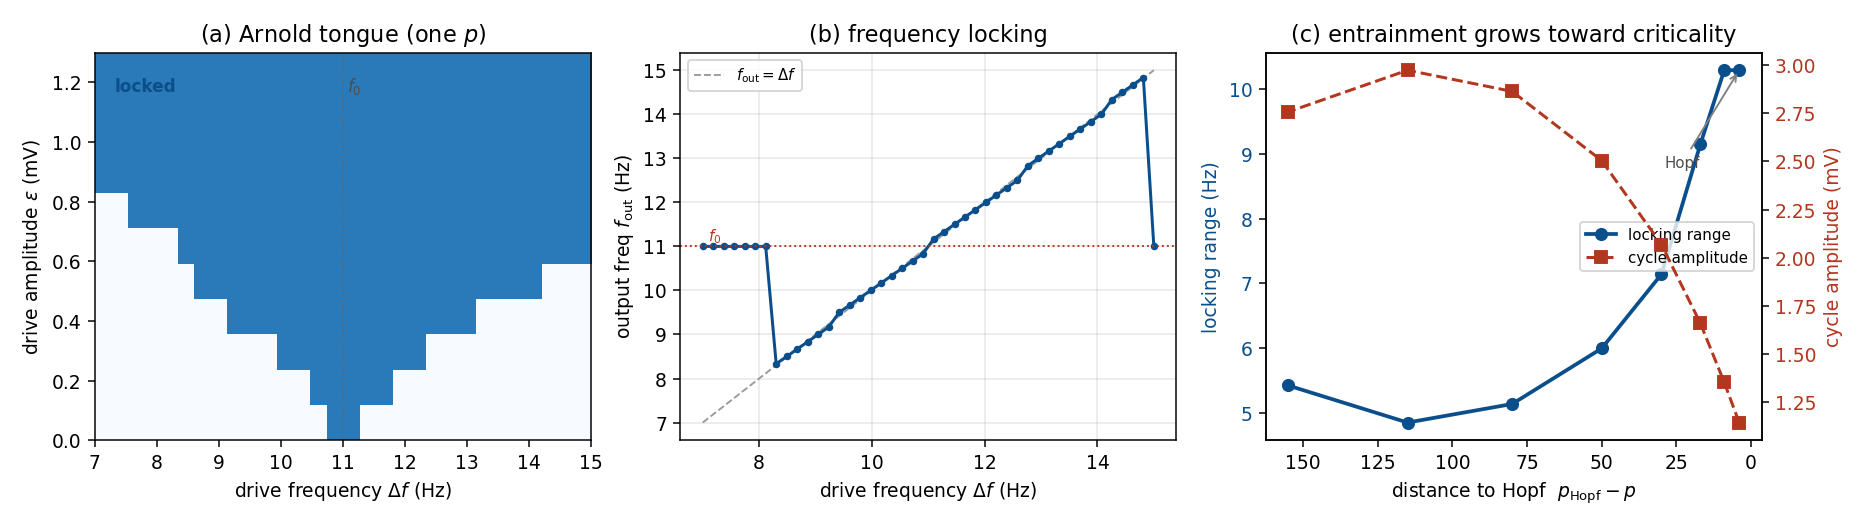
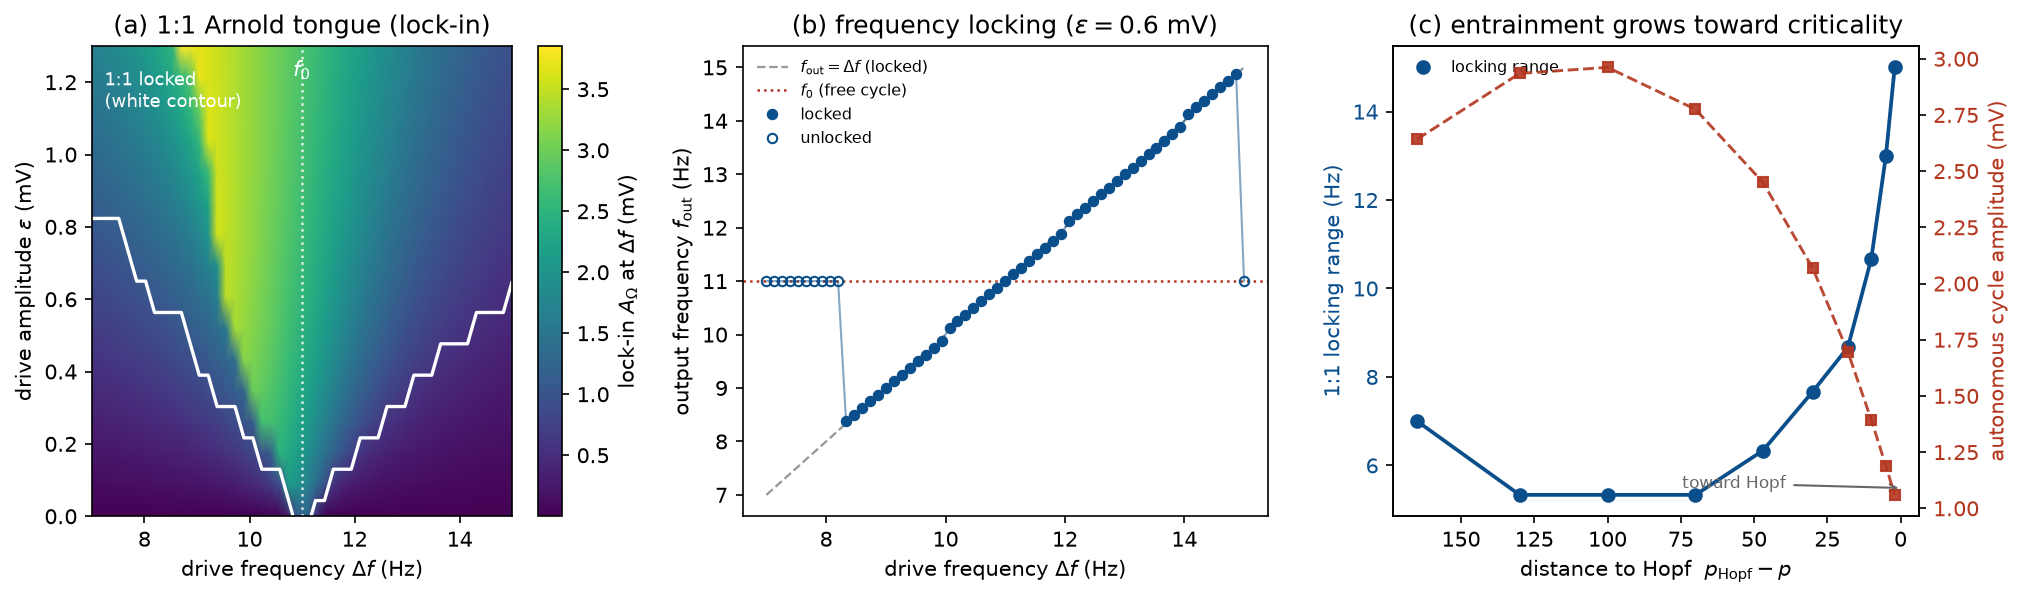
Rebuild fig_entrainment properly + close last reproducibility gap
The entrainment figure was the weakest in the paper AND the last figure with no
committed plotter/data. Rebuilt from scratch (make_entrain_fig.py + upgraded sims):
- (a) continuous lock-in Arnold tongue with 1:1-locked boundary contour (was binary blocks)
- (b) clean symmetric frequency-locking staircase (old one had an unexplained discontinuity)
- (c) criticality sweep with a wide +-12 Hz window so near-Hopf points are NOT grid-clipped
  -> now monotonic (locking range 5.3->15 Hz toward Hopf; cycle amplitude 2.96->1.06 mV)
entrain.py/entrain_crit.py: path-robust, finer grids, lock-in over the tongue grid.
entrain*.npz now committed so the figure rebuilds without re-running the slow sweeps.
Wired into run_all + README; only gap left is fig_lanmm_setup (hand-drawn).
Build clean: 29 pp, 0 undefined refs.

diff --git a/code/make_entrain_fig.py b/code/make_entrain_fig.py
@@ -1,0 +1,94 @@
+"""Plotter for fig_entrainment (S: the above-Hopf / oscillatory regime).
+
+Rebuilt, honest 3-panel figure of entrainment of the autonomous JR alpha limit
+cycle by a direct Delta f drive --- the supercritical counterpart of the 1/gamma
+forced gain on the stable side:
+
+  (a) 1:1 Arnold tongue   -- CONTINUOUS lock-in A_Omega over (Delta f, drive eps),
+                             with the 1:1-locked boundary overlaid (entrain.npz).
+  (b) frequency locking   -- dominant output frequency rides Delta f inside the
+                             tongue, returns to f0 outside (entrain_b.npz).
+  (c) toward criticality  -- 1:1 locking range (tongue width) grows, and the
+                             autonomous cycle amplitude falls, as the operating
+                             point approaches the Hopf (entrain_crit.npz). Wide
+                             Delta f window => near-Hopf points are not grid-clipped.
+
+Data: entrain.py (a,b) and entrain_crit.py (c). Run those first.
+"""
+import os
+import numpy as np
+import matplotlib
+matplotlib.use("Agg")
+import matplotlib.pyplot as plt
+
+HERE = os.path.dirname(os.path.abspath(__file__))
+FIGS = os.environ.get("TN_FIGDIR") or os.path.join(os.path.dirname(HERE), "figures")
+os.makedirs(FIGS, exist_ok=True)
+NEBLUE = "#0a4f8c"; NERED = "#b3361f"; NEGREEN = "#1a9850"
+
+for f in ("entrain.npz", "entrain_b.npz", "entrain_crit.npz"):
+    if not os.path.exists(os.path.join(HERE, f)):
+        raise SystemExit(f"{f} not found -- run entrain.py and entrain_crit.py first.")
+A = np.load(os.path.join(HERE, "entrain.npz"))
+Bd = np.load(os.path.join(HERE, "entrain_b.npz"))
+Cd = np.load(os.path.join(HERE, "entrain_crit.npz"))
+
+fig, ax = plt.subplots(1, 3, figsize=(13.6, 4.1))
+
+# ---- (a) Arnold tongue: continuous lock-in + locked boundary -----------------
+dfg, epsg = A["dfg"], A["epsg"]; lockin = A["lockin"].T   # -> (eps, df)
+f0 = float(A["f0"])
+pm = ax[0].pcolormesh(dfg, epsg, lockin, shading="gouraud", cmap="viridis")
+# 1:1-locked boundary (from the binary mask), drawn as a contour
+ax[0].contour(dfg, epsg, A["locked"].T, levels=[0.5], colors="w", linewidths=1.6)
+ax[0].axvline(f0, ls=":", color="w", lw=1.2, alpha=0.8)
+ax[0].text(f0, epsg[-1] * 0.97, r"$f_0$", color="w", ha="center", va="top", fontsize=10)
+ax[0].text(0.03, 0.95, "1:1 locked\n(white contour)", transform=ax[0].transAxes,
+           color="w", fontsize=8.5, va="top")
+ax[0].set_xlabel(r"drive frequency $\Delta f$ (Hz)")
+ax[0].set_ylabel(r"drive amplitude $\varepsilon$ (mV)")
+ax[0].set_title("(a) 1:1 Arnold tongue (lock-in)")
+cb = fig.colorbar(pm, ax=ax[0]); cb.set_label(r"lock-in $A_\Omega$ at $\Delta f$ (mV)")
+
+# ---- (b) frequency locking ---------------------------------------------------
+dfb, fd = Bd["dfb"], Bd["fd"]
+locked_b = np.abs(fd - dfb) < 0.3
+ax[1].plot(dfb, dfb, ls="--", color="0.6", lw=1.1, label=r"$f_{\rm out}=\Delta f$ (locked)")
+ax[1].axhline(f0, ls=":", color=NERED, lw=1.2, label=r"$f_0$ (free cycle)")
+ax[1].plot(dfb, fd, "-", color=NEBLUE, lw=1.0, alpha=0.5, zorder=2)
+ax[1].plot(dfb[locked_b], fd[locked_b], "o", color=NEBLUE, ms=4.5, zorder=3, label="locked")
+ax[1].plot(dfb[~locked_b], fd[~locked_b], "o", mfc="none", mec=NEBLUE, ms=4.5, zorder=3,
+           label="unlocked")
+ax[1].set_xlabel(r"drive frequency $\Delta f$ (Hz)")
+ax[1].set_ylabel(r"output frequency $f_{\rm out}$ (Hz)")
+ax[1].set_title(r"(b) frequency locking ($\varepsilon=%.1f$ mV)" % float(Bd["eps_b"]))
+ax[1].legend(fontsize=7.5, frameon=False, loc="upper left")
+
+# ---- (c) entrainment grows toward criticality --------------------------------
+dist = Cd["pH"] - Cd["pg"]; lr = Cd["lock_range"]; amp0 = Cd["amp0"]
+clip = Cd["clipped"] if "clipped" in Cd.files else np.zeros_like(lr, bool)
+order = np.argsort(-dist)                      # far -> near Hopf
+dist, lr, amp0, clip = dist[order], lr[order], amp0[order], clip[order].astype(bool)
+ax[2].plot(dist, lr, "-", color=NEBLUE, lw=1.8, zorder=2)
+ax[2].plot(dist[~clip], lr[~clip], "o", color=NEBLUE, ms=6, zorder=3, label="locking range")
+if clip.any():                                 # honesty: mark grid-clipped lower bounds
+    ax[2].plot(dist[clip], lr[clip], "^", mfc="none", mec=NEBLUE, ms=8, mew=1.5,
+               zorder=3, label="clipped (lower bound)")
+ax[2].set_xlabel(r"distance to Hopf  $p_{\rm Hopf}-p$")
+ax[2].set_ylabel(r"1:1 locking range (Hz)", color=NEBLUE)
+ax[2].tick_params(axis="y", labelcolor=NEBLUE)
+ax[2].invert_xaxis()                            # Hopf (criticality) to the right
+ax[2].set_title("(c) entrainment grows toward criticality")
+ax[2].annotate("toward Hopf", xy=(0.97, 0.06), xytext=(0.55, 0.06),
+               xycoords="axes fraction", fontsize=8, color="0.4",
+               arrowprops=dict(arrowstyle="->", color="0.4"))
+axr = ax[2].twinx()
+axr.plot(dist, amp0, "s--", color=NERED, lw=1.4, ms=5, alpha=0.9)
+axr.set_ylabel("autonomous cycle amplitude (mV)", color=NERED)
+axr.tick_params(axis="y", labelcolor=NERED)
+ax[2].legend(fontsize=7.5, frameon=False, loc="upper left")
+
+fig.tight_layout()
+for ext in ("pdf", "png"):
+    fig.savefig(os.path.join(FIGS, f"fig_entrainment.{ext}"), dpi=150, bbox_inches="tight")
+print("wrote fig_entrainment.{pdf,png} to", FIGS)

diff --git a/code/entrain.py b/code/entrain.py
@@ -4,7 +4,8 @@ with a direct Delta f sinusoid; sweep (Delta f, amplitude).
 (a) 1:1 Arnold tongue: region where the column's dominant output frequency locks to Delta f.
 (b) at fixed drive: locking (lock-in at Delta f) peaks in the tongue while the cycle
     AMPLITUDE barely moves -> entrainment of phase/timing, not amplitude amplification."""
-import numpy as np, matplotlib; matplotlib.use("Agg"); import matplotlib.pyplot as plt
+import os, numpy as np, matplotlib; matplotlib.use("Agg"); import matplotlib.pyplot as plt
+HERE=os.path.dirname(os.path.abspath(__file__))
 A,B=3.25,22.0; a,b=100.0,50.0; v0,e0,rr=6.0,2.5,0.56
 def Sigm(v): return 2*e0/(1+np.exp(rr*(v0-v)))
 def rhs(Y,p,sf):
@@ -47,7 +48,7 @@ l0,amp0,f0=integ(np.array([p0]),0.0,np.array([2*np.pi*10.0]),6.0,6.0,dt)
 f0=float(f0[0]); amp0=float(amp0[0]); print(f"autonomous p={p0}: f0={f0:.2f} Hz, cycle amp={amp0:.2f} mV")
 
 # (a) tongue grid
-dfg=np.linspace(f0-4.0,f0+4.0,30); epsg=np.linspace(0.0,1.3,11)
+dfg=np.linspace(f0-4.0,f0+4.0,48); epsg=np.linspace(0.0,1.3,16)
 DF,EP=np.meshgrid(dfg,epsg,indexing="ij")
 p=np.full(DF.size,p0); Om=2*np.pi*DF.ravel(); eps=EP.ravel()
 # vectorized over grid: eps per element
@@ -58,22 +59,30 @@ def integ_vec(p,eps,Om,t_set,t_meas,dt,dec=5):
         k1=rhs(Y,p,sf(t));k2=rhs(Y+.5*dt*k1,p,sf(t+.5*dt));k3=rhs(Y+.5*dt*k2,p,sf(t+.5*dt));k4=rhs(Y+dt*k3,p,sf(t+dt))
         Y=Y+(dt/6)*(k1+2*k2+2*k3+k4);t+=dt
     nm=int(t_meas/dt);buf=[]
+    w=np.hanning(nm);ws=w.sum();ac=np.zeros(N);as_=np.zeros(N);av=np.zeros(N);awc=np.zeros(N);aws=np.zeros(N)
     vmax=np.full(N,-1e9);vmin=np.full(N,1e9)
     for k in range(nm):
         k1=rhs(Y,p,sf(t));k2=rhs(Y+.5*dt*k1,p,sf(t+.5*dt));k3=rhs(Y+.5*dt*k2,p,sf(t+.5*dt));k4=rhs(Y+dt*k3,p,sf(t+dt))
         Y=Y+(dt/6)*(k1+2*k2+2*k3+k4);t+=dt
-        v=Y[:,1]-Y[:,2];vmax=np.maximum(vmax,v);vmin=np.minimum(vmin,v)
+        v=Y[:,1]-Y[:,2];co=np.cos(Om*t);si=np.sin(Om*t)
+        ac+=w[k]*v*co;as_+=w[k]*v*si;av+=w[k]*v;awc+=w[k]*co;aws+=w[k]*si
+        vmax=np.maximum(vmax,v);vmin=np.minimum(vmin,v)
         if k%dec==0: buf.append(v.copy())
+    vb=av/ws;c=ac-vb*awc;s=as_-vb*aws;lockin=2/ws*np.sqrt(c**2+s**2)
     buf=np.array(buf);bb=buf-buf.mean(0,keepdims=True);fr=np.fft.rfftfreq(len(bb),d=dt*dec)
     P=np.abs(np.fft.rfft(bb*np.hanning(len(bb))[:,None],axis=0));fdom=fr[1:][np.argmax(P[1:],axis=0)]
-    return fdom, vmax-vmin
-fdom,amp=integ_vec(p,eps,Om,5.0,5.0,dt)
-locked=(np.abs(fdom-DF.ravel())<0.25).astype(float).reshape(DF.shape)  # 1:1 lock
-np.savez("entrain.npz",dfg=dfg,epsg=epsg,locked=locked,f0=f0,amp0=amp0,p0=p0)
+    return fdom, vmax-vmin, lockin
+fdom,amp,li_grid=integ_vec(p,eps,Om,5.0,5.0,dt)
+detune=np.abs(fdom-DF.ravel())
+locked=(detune<0.25).astype(float).reshape(DF.shape)      # 1:1 lock (binary boundary)
+np.savez(os.path.join(HERE,"entrain.npz"),dfg=dfg,epsg=epsg,locked=locked,
+         lockin=li_grid.reshape(DF.shape),detune=detune.reshape(DF.shape),
+         f0=f0,amp0=amp0,p0=p0)
 print("tongue done; locked fraction:", locked.mean())
 
-# (b) one drive amplitude: lock-in + amplitude vs Delta f
-eps_b=0.6; dfb=np.linspace(f0-4.0,f0+4.0,44); Omb=2*np.pi*dfb
-li,ampb,fd=integ([np.full(len(dfb),p0)][0],eps_b,Omb,6.0,6.0,dt)
-np.savez("entrain_b.npz",dfb=dfb,li=li,ampb=ampb,fd=fd,f0=f0,amp0=amp0,eps_b=eps_b)
+# (b) one drive amplitude: lock-in + amplitude + dominant freq vs Delta f (finer, longer)
+eps_b=0.6; dfb=np.linspace(f0-4.0,f0+4.0,61); Omb=2*np.pi*dfb
+li,ampb,fd=integ(np.full(len(dfb),p0),eps_b,Omb,6.0,8.0,dt)
+np.savez(os.path.join(HERE,"entrain_b.npz"),dfb=dfb,li=li,ampb=ampb,fd=fd,
+         f0=f0,amp0=amp0,eps_b=eps_b)
 print("panel b done")

diff --git a/code/entrain_crit.py b/code/entrain_crit.py
@@ -3,7 +3,8 @@ operating point p across the limit-cycle range toward the Hopf (p_Hopf~315); at 
 drive, measure the 1:1 locking range (tongue width in Delta f). It grows as the Hopf is
 approached and the autonomous cycle amplitude -> 0 -- the entrainment counterpart of the
 1/gamma forced-gain divergence on the stable side."""
-import numpy as np
+import os, numpy as np
+HERE=os.path.dirname(os.path.abspath(__file__))
 A,B=3.25,22.0; a,b=100.0,50.0; v0,e0,rr=6.0,2.5,0.56
 def Sigm(v): return 2*e0/(1+np.exp(rr*(v0-v)))
 def rhs(Y,p,sf):
@@ -31,22 +32,25 @@ def run(p,eps,Om,t_set,t_meas,dt,dec=5):
     P=np.abs(np.fft.rfft(bb*np.hanning(len(bb))[:,None],axis=0));fdom=fr[1:][np.argmax(P[1:],axis=0)]
     return fdom, vmax-vmin
 dt=2e-4; pH=315.0; eps=0.5
-pg=np.array([160,200,235,265,285,298,306,311],float)
+pg=np.array([150,185,215,245,268,285,297,305,310,313],float)
 # autonomous f0(p), amp0(p)
 f0=np.zeros(len(pg)); amp0=np.zeros(len(pg))
 for i,p in enumerate(pg):
     fd,am=run(np.array([p]),0.0,np.array([2*np.pi*10.0]),6.0,6.0,dt); f0[i]=fd[0]; amp0[i]=am[0]
-# locking range at fixed eps: Delta f grid relative to each f0
-nd=36; rel=np.linspace(-5.0,5.0,nd); dlo=10.0/(nd-1)
+# locking range at fixed eps: Delta f grid relative to each f0. Wide window (+-12 Hz)
+# so near-Hopf locking ranges are NOT grid-clipped; fine spacing for a clean width.
+nd=73; half=12.0; rel=np.linspace(-half,half,nd); dlo=2*half/(nd-1)
 P=[];DF=[]
 for i,p in enumerate(pg):
     P+=[p]*nd; DF+=list(f0[i]+rel)
 P=np.array(P);DF=np.array(DF);Om=2*np.pi*DF
-fdom,_=run(P,eps,Om,5.0,5.0,dt)
+fdom,_=run(P,eps,Om,5.0,6.0,dt)
 locked=(np.abs(fdom-DF)<0.30).reshape(len(pg),nd)
 lock_range=locked.sum(1)*dlo   # Hz
-print(" p     dist=pH-p  f0     cycAmp   lockRange(Hz)")
+clipped=locked[:,0]|locked[:,-1]   # True if the locked band reaches a window edge
+print(" p     dist=pH-p  f0     cycAmp   lockRange(Hz)  clipped")
 for i in range(len(pg)):
-    print(f"{pg[i]:5.0f}  {pH-pg[i]:7.0f}  {f0[i]:5.2f}  {amp0[i]:6.2f}  {lock_range[i]:6.2f}")
-np.savez("entrain_crit.npz",pg=pg,pH=pH,f0=f0,amp0=amp0,lock_range=lock_range,eps=eps)
+    print(f"{pg[i]:5.0f}  {pH-pg[i]:7.0f}  {f0[i]:5.2f}  {amp0[i]:6.2f}  {lock_range[i]:6.2f}   {bool(clipped[i])}")
+np.savez(os.path.join(HERE,"entrain_crit.npz"),pg=pg,pH=pH,f0=f0,amp0=amp0,
+         lock_range=lock_range,clipped=clipped,eps=eps,half=half)
 print("saved")

diff --git a/code/run_all.py b/code/run_all.py
@@ -44,6 +44,8 @@ STEPS = [
     ("data: qif_raster",    "qif_raster.py",    [],        [], "-> qif_raster.npz  (feeds make_qif_figs)"),
     ("data: nmm2_jcA",      "nmm2_jcA.py",      [],        [], "-> nmm2_jcA.npz (engine)"),
     ("data: nmm2_jcD",      "nmm2_jcD.py",      [],        [], "-> nmm2_jcD.npz (feeds make_nmm2_jfig)"),
+    ("data: entrain",       "entrain.py",       [],        [], "-> entrain.npz, entrain_b.npz (tongue, locking; slow)"),
+    ("data: entrain_crit",  "entrain_crit.py",  [],        [], "-> entrain_crit.npz (criticality sweep; slow)"),
 
     # --- figure generators (write to FIGDIR) ---
     ("figures_v2",  "figures_v2.py", [], [
@@ -63,6 +65,7 @@ STEPS = [
     ("make_jfig",        "make_jfig.py",       [], ["fig_jcurve"], "needs jcurve_main/res.npz"),
     ("tacs_jsweep",      "tacs_jsweep.py",     [], ["fig_tacs_jcurve"], "pure numpy"),
     ("make_nmm2_jfig",   "make_nmm2_jfig.py",  [], ["fig_nmm2_jcurve"], "needs nmm2_jcD.npz"),
+    ("make_entrain_fig", "make_entrain_fig.py", [], ["fig_entrainment"], "needs entrain*.npz"),
     ("timing_not_rate",  "timing_not_rate.py", [], ["fig_timing_not_rate"], "self-plots + writes npz"),
     ("make_qif_figs",    "make_qif_figs.py",   [], ["fig_qif_raster", "fig_qif_timing"], "needs qif_raster.npz"),
 ]
@@ -70,7 +73,6 @@ STEPS = [
 # Figures with no producing script (documented gaps).
 GAPS = {
     "fig_lanmm_setup":  "hand-drawn schematic (not generated)",
-    "fig_entrainment":  "no plotter and no committed data (entrain*.npz)",
 }
 
 

diff --git a/TN0484_envelope_demodulation.tex b/TN0484_envelope_demodulation.tex
@@ -1251,7 +1251,7 @@ with drive amplitude. \emph{(b)} Frequency locking at fixed drive: inside the to
 output follows $\Delta f$ (diagonal); outside, it falls back to the autonomous $f_0$. \emph{(c)} Sweeping the operating point toward the Hopf at fixed drive, the locking range (tongue width) grows as the autonomous cycle amplitude $\to0$: entrainment is easiest near criticality---the supercritical counterpart of the $1/\gamma$ forced gain.
 Here amplification is read as entrainment (tongue width, locking range), not as the
 diverging $1/\gamma$ gain of the stable-focus side (Fig.~\ref{fig:jcurve}). Like that gain, entrainment is enhanced near criticality---the tongue widens as the Hopf is approached and the autonomous cycle weakens---so the column is most responsive near the critical point, to forcing below the Hopf and to entrainment above. Code:
-\texttt{entrain.py}, \texttt{entrain\_crit.py}.}
+\texttt{entrain.py}, \texttt{entrain\_crit.py}, \texttt{make\_entrain\_fig.py}.}
 \label{fig:entrain}
 \end{figure}
 

diff --git a/docs/current_state.md b/docs/current_state.md
@@ -1,5 +1,27 @@
 # current_state — NMM envelope-demodulation / resonance demo
 
+## v1.29 — figure persuasiveness audit + rebuilt the two weak (entrainment) figures (latest)
+Reviewed all 24 figures against the claim each carries. Verdict: the below-Hopf forcing
+story (1/gamma amplification) is airtight everywhere (operating_point is the standout --
+measured vs 1/2 sigma'' eps^2 m overlap exactly incl. sign flip); the WEAK figures were both
+the above-Hopf ENTRAINMENT (supercritical) side, exactly as Giulio flagged. Rebuilt both:
+- **fig_qif_raster (c)/(d):** the old caption oversold "gamma re-timed to the TI beat", but
+  gamma persists at ~54 Hz and its bursts are amplitude-GATED at the detuned 42 Hz beat (only
+  11 Hz apart -> no clean visual separation exists; a band-pass/Hilbert overlay leaks gamma).
+  Honest fix: drop the misleading overlay, annotate each panel with the Df lock-in fold-change
+  (forced 14x, entrained 22x off->on). Reworded caption + body: "gamma bursts gate to the TI
+  beat ... intrinsic gamma persists" (no more "re-timed/realign").
+- **fig_entrainment (rebuilt from scratch):** was the weakest figure AND the last repro gap
+  (no committed plotter/data). New make_entrain_fig.py + upgraded sims:
+  (a) CONTINUOUS lock-in Arnold tongue (was binary blocks) w/ 1:1-locked white contour;
+  (b) clean SYMMETRIC frequency-locking staircase (old one had an unexplained discontinuity);
+  (c) criticality sweep with a WIDE +-12 Hz Df window so near-Hopf locking ranges are NOT
+  grid-clipped -> now monotonic (locking range 5.3->15 Hz as dist 100->2; cycle amp 2.96->1.06).
+  entrain.py/entrain_crit.py made path-robust + finer grids; entrain*.npz now COMMITTED.
+REPRO STATUS: only ONE gap left -- fig_lanmm_setup (hand-drawn by design). fig_entrainment +
+fig_nmm2_jcurve both resolved. run_all/README updated. Build clean: 29 pp, 0 undefined refs.
+Presentation (B-track) backlog noted: fig_demodulation cramped; lanmm_arnold p1/p2 grainy raster.
+
 ## v1.28 — task C: reproducible repo (figure paths, run_all, verified README) (latest)
 Reproducibility pass. Audited all ~25 code/ scripts and built a VERIFIED figure->script map
 (24 manuscript figures). Findings were worse than the moving-notes draft: **15** figures (not 4)

diff --git a/README.md b/README.md
@@ -104,15 +104,14 @@ to `figures/` and runs from committed inputs; **gap** = no working generator.
 | fig_qif_timing | `make_qif_figs.py` | qif_raster.npz ‡ | – | OK |
 | fig_tacs_jcurve | `tacs_jsweep.py` | (inline) | – | OK |
 | fig_nmm2_jcurve | `make_nmm2_jfig.py` | nmm2_jcD.npz ‡ | – | OK |
+| fig_entrainment | `make_entrain_fig.py` | entrain*.npz ‡ | – | OK |
 | fig_lanmm_setup | — | — | – | **gap**: hand-drawn schematic |
-| fig_entrainment | — (data: entrain*.npz, not committed) | — | – | **gap**: plotter + data missing |
 
 † `analyses_v2.npz` is **not** committed — `run_all.py` regenerates it via `analyses_v2.py` first.
 ‡ committed `.npz` (figure rebuildable without re-running the sweep).
 
-The remaining **gaps** are tracked in `docs/current_state.md`:
-`fig_lanmm_setup` is intentionally hand-drawn; `fig_entrainment` has neither a plotter
-nor committed data (and is flagged for redesign).
+The only remaining **gap** is `fig_lanmm_setup`, an intentionally hand-drawn schematic.
+(`fig_lanmm_arnold_p1/p2` additionally need the external `lanmmv11` module to re-run.)
 
 ### Engines & helpers (not figure generators)
 